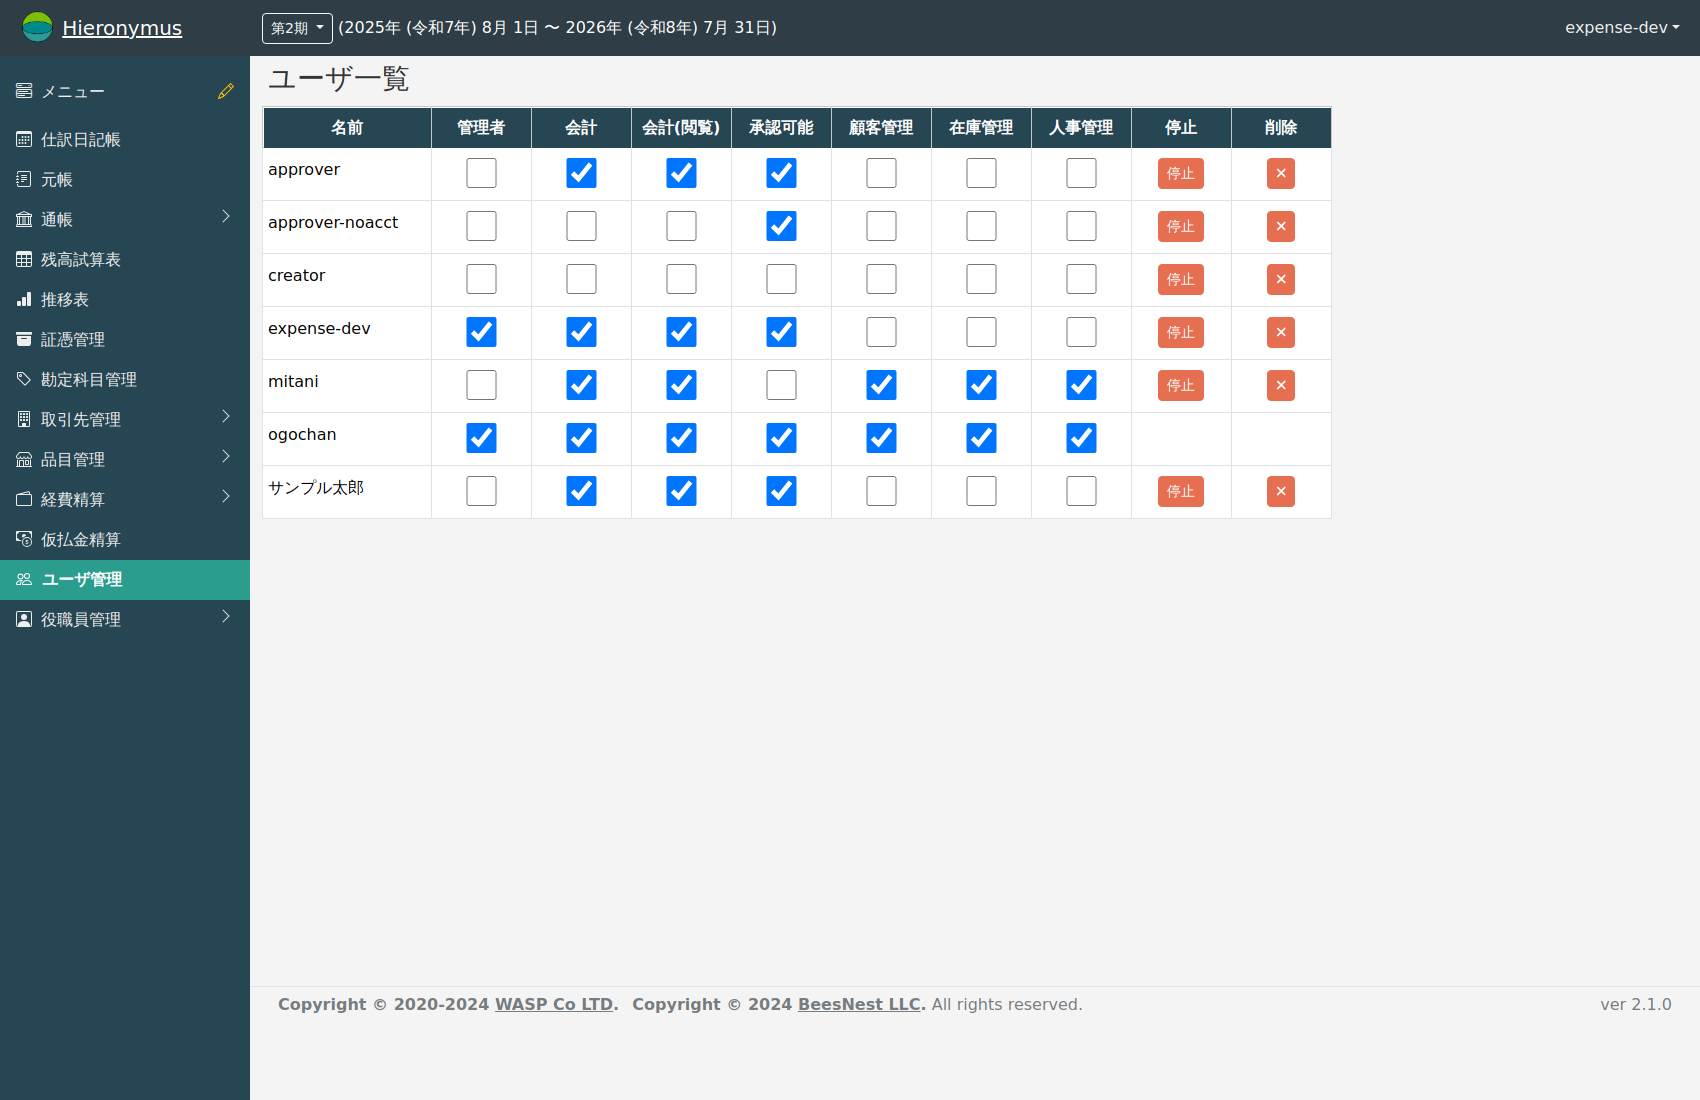
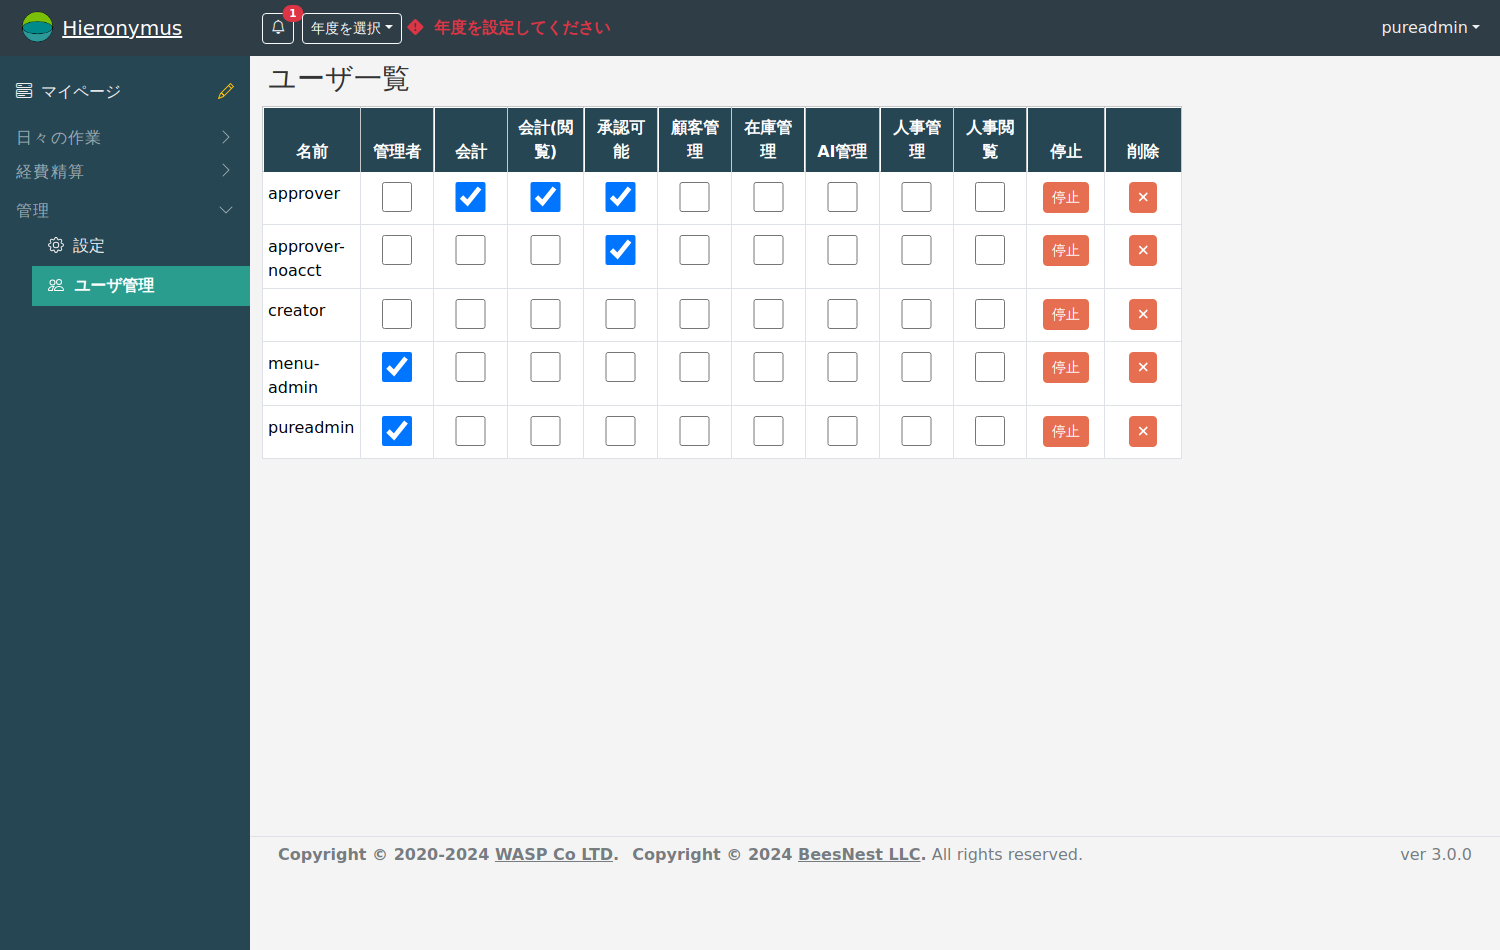
docs: マニュアルのスクリーンショットを現行UIで撮り直す
ホームの整理・権限列の追加・証憑種別の移動で古くなっていた
スクリーンショットを一括更新:
- ホーム4枚（承認待ちカード・クリーンなホーム）と帳票出力カード
- 初期ホーム（自社情報未登録状態）
- ユーザー管理4枚（AI管理・人事閲覧の列が入った現画面）
- 証憑種別設定.pngを新規作成し、crossslip.mdの説明を
  「ホーム画面下部」→「証憑管理>設定」に修正
- 旧ホーム(証憑種別)2枚を削除（1枚は参照なしの孤立画像）

テスト環境サーバで撮影。撮影用の伝票・一時ユーザーは掃除済み。
全445テスト合格

Changed region(s): [[0.0, 0.0, 1.0, 1.0], [0.92, 0.8853, 0.9813, 0.9158]]

diff --git a/Docs/logs/20261122.md b/Docs/logs/20261122.md
@@ -627,3 +627,24 @@ Docs/release-blog-3.0.0.md にブログ用下書きを作成。
 前回エントリの文体（見出し構成・余談コードブロック・画像の挿入位置は
 TODOプレースホルダ）に合わせている。公開前の確認事項（日付・URL・
 メディア差し替え）を末尾にメモとして付けてある。
+
+## マニュアルのスクリーンショット更新（続き23）
+
+「マニュアルのスクショは更新されてる？」への対応。このセッションのUI変更
+（ホームの整理・権限列の追加・証憑種別の移動）で古くなっていた
+スクリーンショットを一括で撮り直した:
+
+- ホーム4枚: ホーム.png / ホーム(8月未承認).png / ホーム(8月未承認伝番).png /
+  ホーム(伝票承認).png（承認待ちカード含む現ホーム。伝票承認は伝票画面）
+- ホーム画面の帳票出力メニュー.png（帳票出力カードのクロップ）
+- 初期ホーム.png（自社情報未登録状態）
+- ユーザー管理画面4枚（AI管理・人事閲覧の列が入った現画面。
+  テストDBに溜まっていた一時ユーザー329→5に掃除してから撮影）
+- 取引文書種別設定画面.png（前に更新済み）
+- 証憑種別設定.png（旧「ホーム(証憑種別)」を改名・再撮影。
+  crossslip.mdの説明文も「証憑管理>設定」に修正）
+- 旧ホーム(証憑種別).png・(クリック).pngは削除（後者は参照なしの孤立画像）
+
+撮影はテスト環境サーバ（NODE_ENV=test）。撮影用の未承認伝票2枚は
+承認してから掃除。テストスイートが都度作る一時ユーザーの削除は
+findOrCreateで次回実行時に復元されるため影響なし（全445テスト合格）。
